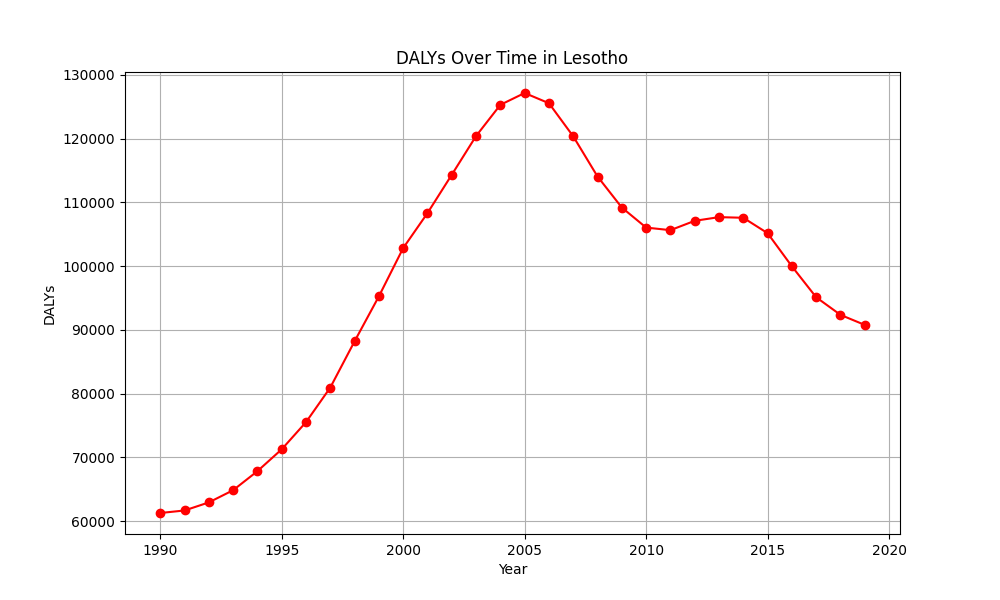
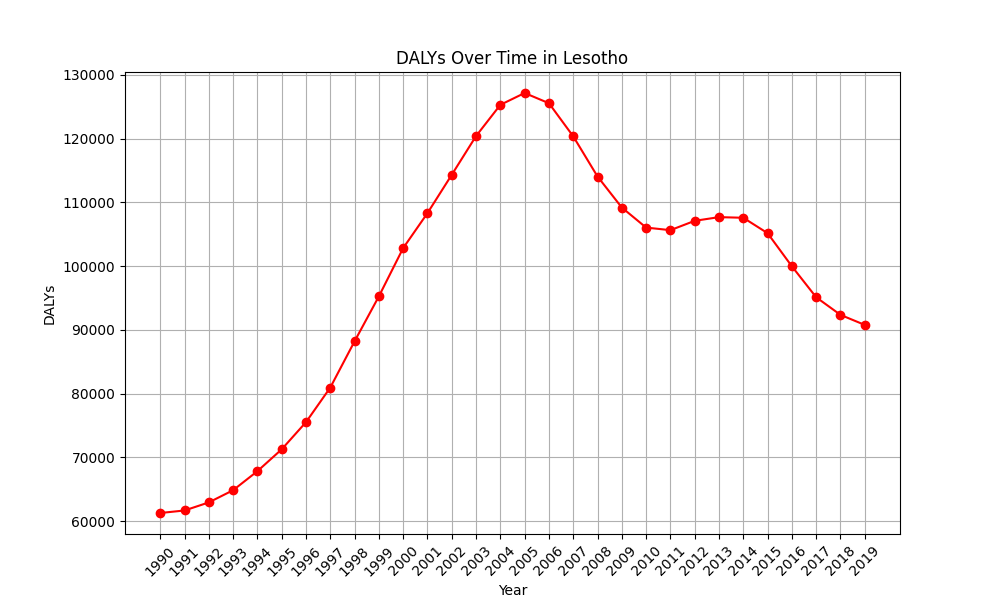
add question

Changed region(s): [[0.124, 0.9, 0.899, 0.99]]

diff --git a/Practical10/dalys.py b/Practical10/dalys.py
@@ -49,6 +49,7 @@ if __name__ == "__main__":
     plt.plot(country_data['Year'], country_data['DALYs'], marker='o', linestyle='-', color='red')
     plt.xlabel('Year')
     plt.ylabel('DALYs')
+    plt.xticks(country_data['Year'], rotation=45)
     plt.title(f'DALYs Over Time in {max_country_2019}')
     plt.grid(True)
     plt.savefig('Practical10/DALYs_over_time_max_country.png')
@@ -59,8 +60,31 @@ if __name__ == "__main__":
     plt.plot(country_data['Year'], country_data['DALYs'], marker='o', linestyle='-', color='blue')
     plt.xlabel('Year')
     plt.ylabel('DALYs')
+    plt.xticks(country_data['Year'], rotation=45)
     plt.title(f'DALYs Over Time in {min_country_2019}')
     plt.grid(True)
     plt.savefig('Practical10/DALYs_over_time_min_country.png')
     plt.close()
     
+    # Question: How has the relationship between DALYs in China and the UK changed over time?
+    china_data = data[data['Entity'] == 'China']
+    uk_data = data[data['Entity'] == 'United Kingdom']
+
+    # Plot DALYs over time for both countries
+    plt.figure(figsize=(10, 6))
+    plt.plot(china_data['Year'], china_data['DALYs'], label='China', marker='o', color='red')
+    plt.plot(uk_data['Year'], uk_data['DALYs'], label='UK', marker='s', color='blue')
+    plt.xlabel('Year')
+    plt.ylabel('DALYs')
+    plt.title('DALYs Over Time: China vs. UK')
+    plt.legend()
+    plt.grid(True)
+    plt.savefig('Practical10/China_UK_DALYs_comparison.png')
+    plt.close()
+
+    # Summary statistic: Absolute difference in DALYs each year (to measure similarity)
+    merged = pd.merge(china_data[['Year', 'DALYs']], uk_data[['Year', 'DALYs']], on='Year', suffixes=('_China', '_UK'))
+    merged['Difference'] = abs(merged['DALYs_China'] - merged['DALYs_UK'])
+    print(f"\nDALYs Difference (China - UK) over time:\n{merged[['Year', 'Difference']]}")
+    avg_diff = merged['Difference'].mean()
+    print(f"Average absolute difference: {avg_diff:.2f}")